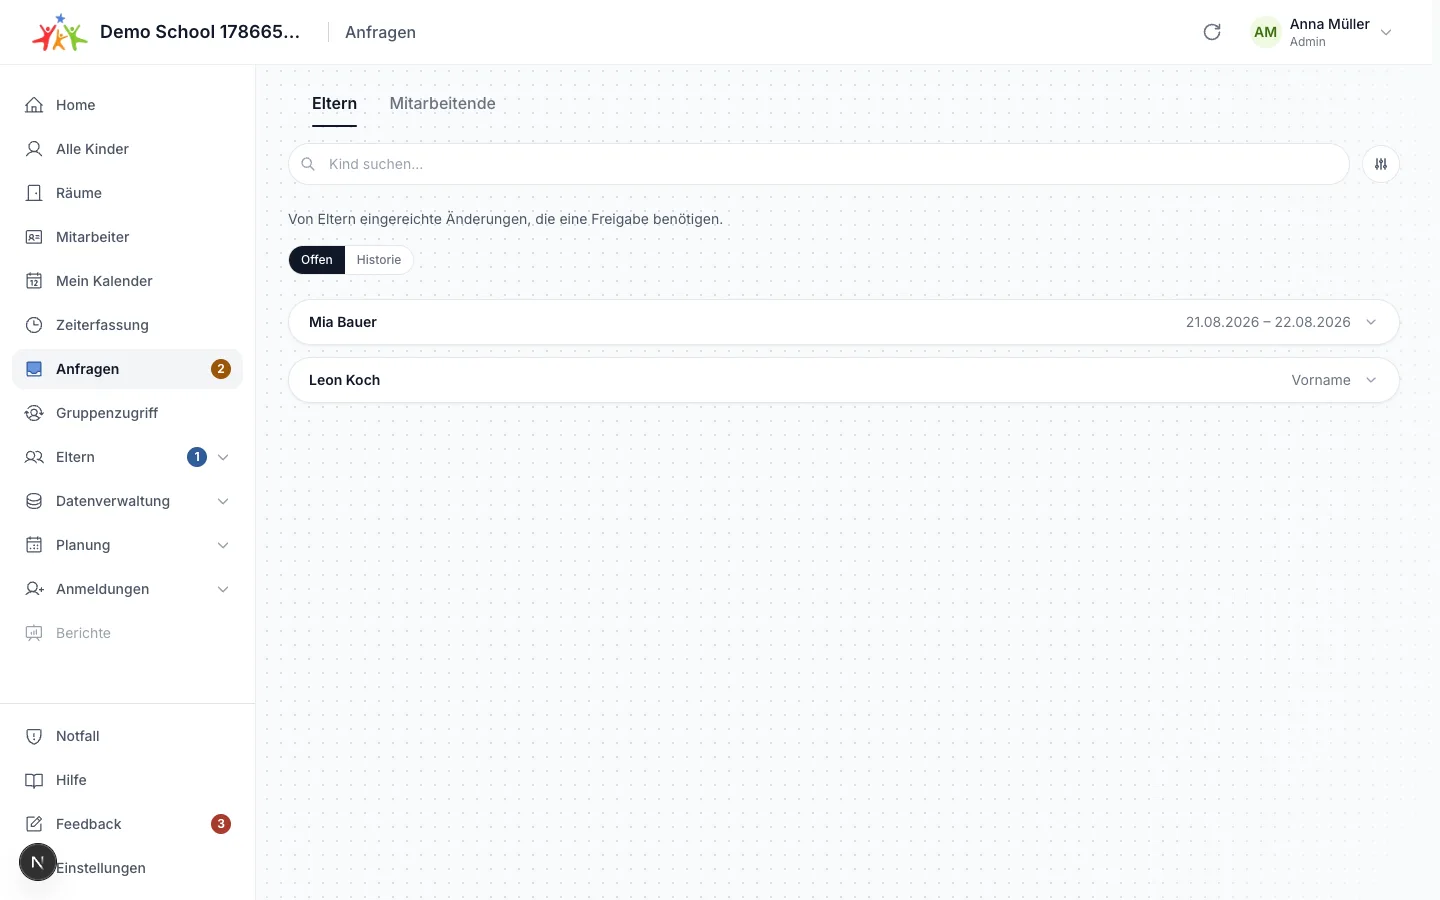
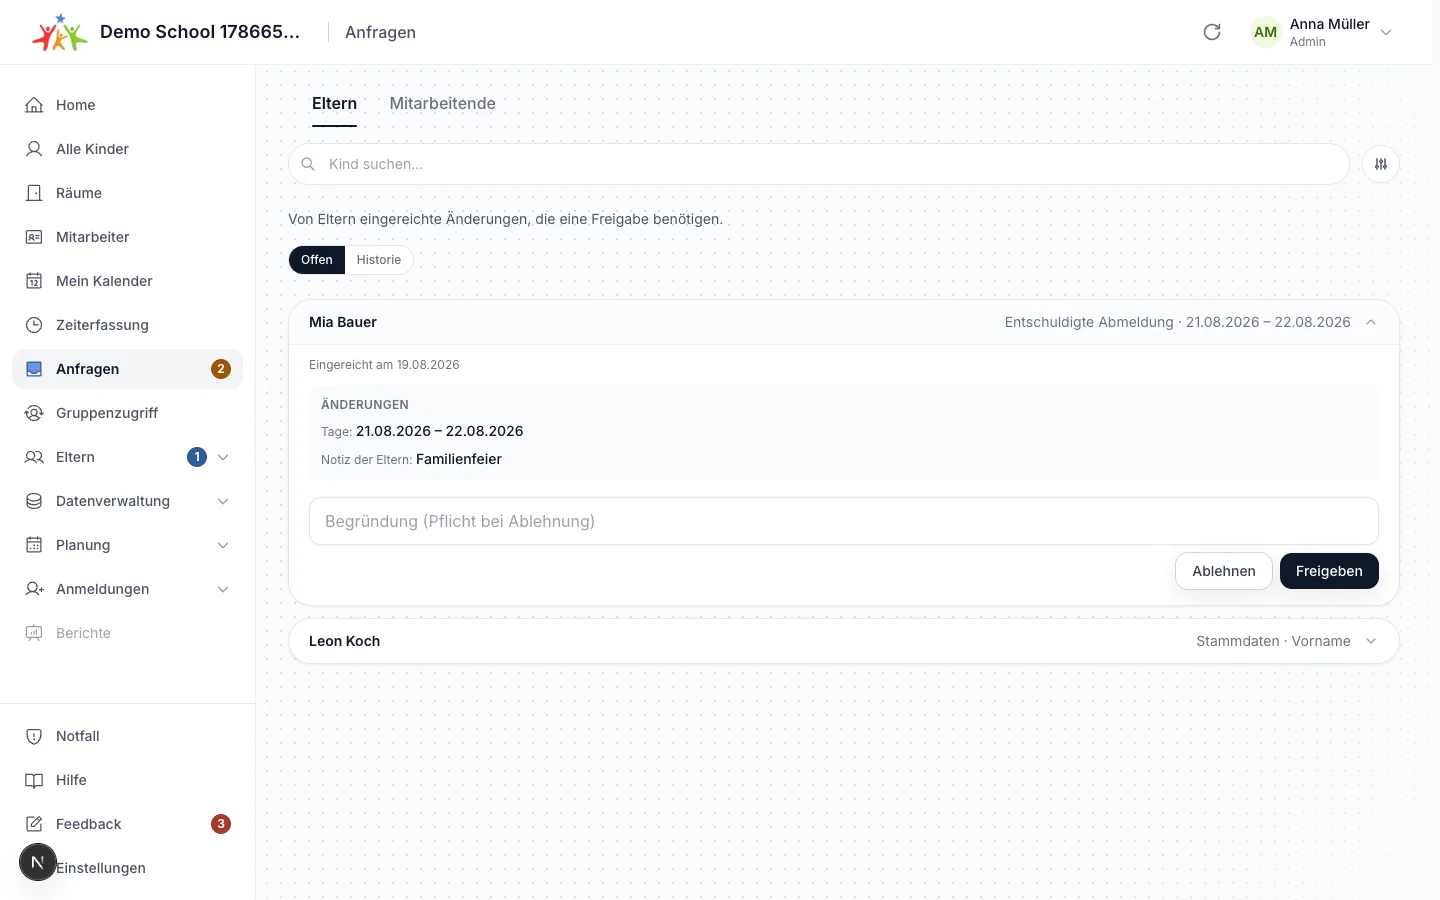
fix: Review-Feinschliff für die aggregierte Anfragenliste (#2432)
Aus dem Code-Review: jede Zeile nennt jetzt ihre Anfrageart im
Kartensummary, Karten zeigen den Einreichungszeitpunkt (Eingereicht am),
leere Cursor-Seiten bei enger Suche werden bis zu dreimal automatisch
nachgezogen statt einen blinden Nachlade-Knopf zu zeigen, die fünf
handgerollten Fehler-/Hinweis-Banner nutzen die Kit-Alert (entfernt auch
die Off-Palette-Hexwerte aus der Angebots-Karte), plus Kommentar zur
Cursor-Feldbedeutung im Offen-View und Textkorrektur im Hilfe-Guide.
Screenshot der Freigabeansicht neu aufgenommen.

diff --git a/frontend/src/components/students/aggregated-request-list.tsx b/frontend/src/components/students/aggregated-request-list.tsx
@@ -16,6 +16,7 @@ import { useCallback, useEffect, useRef, useState } from "react";
 
 import { TrayIcon } from "@phosphor-icons/react/ssr";
 
+import { Alert } from "~/components/ui/alert";
 import { Button } from "~/components/ui/button";
 import { EmptyState } from "~/components/ui/empty-state";
 import { ListSkeleton, SkeletonRegion } from "~/components/ui/page-skeletons";
@@ -90,13 +91,32 @@ export function AggregatedRequestList({
     [view, filters],
   );
 
+  // Bei sehr selektiven Filtern kann eine Server-Seite leer sein, aber einen
+  // Cursor tragen (Scan-Budget des Aggregators). Bis zu drei Folgeseiten
+  // automatisch nachziehen, damit niemand blind auf „Weitere Einträge laden"
+  // drücken muss; danach übernimmt der sichtbare Nachlade-Knopf.
+  const fetchFilledPage = useCallback(
+    async (cursor?: string) => {
+      let page = await fetchPage(cursor);
+      for (
+        let follows = 0;
+        page.items.length === 0 && page.next_cursor && follows < 3;
+        follows++
+      ) {
+        page = await fetchPage(page.next_cursor);
+      }
+      return page;
+    },
+    [fetchPage],
+  );
+
   // Erste Seite laden — auch bei jeder Such-/Filteränderung (fetchPage wechselt
   // die Identität), dann ersetzt die Antwort die Liste komplett.
   useEffect(() => {
     let cancelled = false;
     setLoading(true);
     setError(null);
-    fetchPage()
+    fetchFilledPage()
       .then((page) => {
         if (cancelled) return;
         setItems([...page.items]);
@@ -114,7 +134,7 @@ export function AggregatedRequestList({
     return () => {
       cancelled = true;
     };
-  }, [fetchPage]);
+  }, [fetchFilledPage]);
 
   // Refetch ohne Spinner, wenn eine Entscheidung anderswo fällt: Entscheidungen
   // in diesem Fenster senden change-requests-refresh, Entscheidungen anderswo
@@ -123,14 +143,14 @@ export function AggregatedRequestList({
   // Umschalten frisch.
   const reloadInPlace = useCallback(async () => {
     try {
-      const page = await fetchPage();
+      const page = await fetchFilledPage();
       setItems([...page.items]);
       setNextCursor(page.next_cursor);
     } catch (err) {
       const message = err instanceof Error ? err.message : String(err);
       logger.warn("aggregated_request_list_reload_failed", { error: message });
     }
-  }, [fetchPage]);
+  }, [fetchFilledPage]);
 
   useEffect(() => {
     if (view !== "open") return;
@@ -161,7 +181,7 @@ export function AggregatedRequestList({
     setLoadingMore(true);
     setError(null);
     try {
-      const page = await fetchPage(nextCursor);
+      const page = await fetchFilledPage(nextCursor);
       setItems((prev) => [...prev, ...page.items]);
       setNextCursor(page.next_cursor);
     } catch (err) {
@@ -173,7 +193,7 @@ export function AggregatedRequestList({
     } finally {
       setLoadingMore(false);
     }
-  }, [fetchPage, nextCursor]);
+  }, [fetchFilledPage, nextCursor]);
 
   // Nach einer Entscheidung: Zeile entfernen, Hinweis zeigen und das
   // Badge/die Geschwister-Ansichten über change-requests-refresh anstoßen.
@@ -203,16 +223,8 @@ export function AggregatedRequestList({
 
   return (
     <div className="space-y-3">
-      {error && (
-        <div className="border-moto-red/20 bg-moto-red/10 text-moto-red-strong rounded-xl border p-3 text-sm">
-          {error}
-        </div>
-      )}
-      {notice && (
-        <div className="rounded-xl border border-gray-200 bg-gray-50 p-3 text-sm text-gray-700">
-          {notice}
-        </div>
-      )}
+      {error && <Alert type="error" message={error} />}
+      {notice && <Alert type="success" message={notice} />}
       {items.length === 0 && !error ? (
         <EmptyState
           icon={<TrayIcon size={32} aria-hidden="true" />}

diff --git a/frontend/src/components/students/care-request-review-item.tsx b/frontend/src/components/students/care-request-review-item.tsx
@@ -2,6 +2,7 @@
 
 import { useState } from "react";
 
+import { Alert } from "~/components/ui/alert";
 import {
   RequestReviewCard,
   ReviewDiffPanel,
@@ -109,10 +110,19 @@ export function CareRequestReviewItem({
     }
   };
 
+  // In der gemischten Liste muss jede Zeile ihre Anfrageart nennen; die
+  // Detail-Arten (z. B. „Abholzeit + Abholart") bleiben dahinter sichtbar.
+  const kindLabel =
+    row.request_kind === "pickup_change" ? "Abholzeit" : "Betreuungszeiten";
+  const details = careSummary(row.diff);
+  const summary =
+    details && details !== kindLabel ? `${kindLabel} · ${details}` : kindLabel;
+
   return (
     <RequestReviewCard
       childName={`${row.first_name} ${row.last_name}`}
-      summary={careSummary(row.diff)}
+      summary={summary}
+      submittedAt={row.created_at}
       reason={reason}
       onReasonChange={(value) => {
         setReason(value);
@@ -129,8 +139,8 @@ export function CareRequestReviewItem({
       onReject={() => void decide(false)}
     >
       {error && (
-        <div className="border-moto-red/20 bg-moto-red/10 text-moto-red-strong mb-2 rounded-xl border p-3 text-sm">
-          {error}
+        <div className="mb-2">
+          <Alert type="error" message={error} />
         </div>
       )}
       <ReviewDiffPanel>

diff --git a/frontend/src/components/students/request-review-card.tsx b/frontend/src/components/students/request-review-card.tsx
@@ -40,6 +40,7 @@ type RequestReviewCardHistory = {
 export function RequestReviewCard({
   childName,
   summary,
+  submittedAt,
   children,
   history,
   reason,
@@ -52,6 +53,8 @@ export function RequestReviewCard({
 }: Readonly<{
   childName: string;
   summary?: string;
+  /** Einreichungszeitpunkt (ISO); rendert „Eingereicht am …" (#2432). */
+  submittedAt?: string;
   children?: ReactNode;
   history?: RequestReviewCardHistory;
   reason?: string;
@@ -78,6 +81,7 @@ export function RequestReviewCard({
           <StatusBadge label={meta.label} tone={meta.tone} />
         </div>
         <p className="mt-1 text-xs text-gray-500">
+          {submittedAt ? `Eingereicht am ${formatDate(submittedAt)} · ` : ""}
           Entschieden am {formatDate(history.decidedAt)}
           {history.decidedByName ? ` von ${history.decidedByName}` : ""}
         </p>
@@ -112,6 +116,11 @@ export function RequestReviewCard({
       </button>
       {open && (
         <div className="border-t border-gray-100 px-4 pb-4 sm:px-5">
+          {submittedAt && (
+            <p className="mt-3 text-xs text-gray-500">
+              Eingereicht am {formatDate(submittedAt)}
+            </p>
+          )}
           {children}
           <div className="mt-4 space-y-2">
             <Input

diff --git a/frontend/src/components/students/request-history-item.tsx b/frontend/src/components/students/request-history-item.tsx
@@ -25,7 +25,8 @@ function MasterDataHistoryCard({
   return (
     <RequestReviewCard
       childName={`${row.first_name} ${row.last_name}`}
-      summary={fieldLabel(row.field_key)}
+      summary={`Stammdaten · ${fieldLabel(row.field_key)}`}
+      submittedAt={row.created_at}
       history={{
         status: row.status,
         decidedAt: row.decided_at,
@@ -51,6 +52,7 @@ function CareHistoryCard({
       summary={
         row.request_kind === "pickup_change" ? "Abholzeit" : "Betreuungszeiten"
       }
+      submittedAt={row.created_at}
       history={{
         status: row.status,
         decidedAt: row.decided_at,
@@ -84,6 +86,7 @@ function OfferingHistoryCard({
     <RequestReviewCard
       childName={row.student_name}
       summary="Betreuungsangebote und AGs"
+      submittedAt={row.created_at}
       history={{
         status: row.status,
         decidedAt: row.decided_at,
@@ -126,6 +129,7 @@ function ExcusedHistoryCard({
     <RequestReviewCard
       childName={`${row.first_name} ${row.last_name}`}
       summary="Entschuldigte Abmeldung"
+      submittedAt={row.created_at}
       history={{
         status: row.status,
         decidedAt: row.decided_at,

diff --git a/frontend/src/components/help/guide-data.ts b/frontend/src/components/help/guide-data.ts
@@ -1652,7 +1652,7 @@ export const appChapters: readonly GuideChapter[] = [
           "Mit `Freigeben` wird die Änderung übernommen: Bei Betreuungszeiten wird der Wochenplan des Kindes direkt aktualisiert.",
           "Passt die Anfrage nicht, eine kurze `Begründung` eintragen und auf `Ablehnen` tippen. Der Grund wird der Bezugsperson angezeigt.",
           "Nach der Entscheidung wird die Bezugsperson in ihrer App über das Ergebnis informiert (Hinweis im Nachrichten-Verlauf und Status im Kinderbereich).",
-          "Über den Schalter `Historie` stehen alle bereits entschiedenen Anfragen in derselben Liste — mit Datum, entscheidender Person und Begründung. Dort lässt sich zusätzlich nach `Status` (Angenommen, Abgelehnt, Zurückgezogen) und nach `Zeitraum` filtern.",
+          "Über den Schalter `Historie` stehen alle bereits entschiedenen Anfragen in derselben Liste, jeweils mit Datum, entscheidender Person und Begründung. Dort lässt sich zusätzlich nach `Status` (Angenommen, Abgelehnt, Zurückgezogen) und nach `Zeitraum` filtern.",
         ],
         callout: {
           title: "Wer darf entscheiden",

diff --git a/frontend/src/components/students/master-data-review-item.tsx b/frontend/src/components/students/master-data-review-item.tsx
@@ -2,6 +2,7 @@
 
 import { useState } from "react";
 
+import { Alert } from "~/components/ui/alert";
 import {
   RequestReviewCard,
   ReviewDiffPanel,
@@ -140,7 +141,8 @@ export function MasterDataReviewItem({
   return (
     <RequestReviewCard
       childName={`${row.first_name} ${row.last_name}`}
-      summary={fieldLabel(row.field_key)}
+      summary={`Stammdaten · ${fieldLabel(row.field_key)}`}
+      submittedAt={row.created_at}
       reason={reason}
       onReasonChange={setReason}
       reasonPlaceholder="Begründung (optional)"
@@ -149,8 +151,8 @@ export function MasterDataReviewItem({
       onReject={() => void decide(false)}
     >
       {error && (
-        <div className="border-moto-red/20 bg-moto-red/10 text-moto-red-strong mb-2 rounded-xl border p-3 text-sm">
-          {error}
+        <div className="mb-2">
+          <Alert type="error" message={error} />
         </div>
       )}
       <ReviewDiffPanel>

diff --git a/frontend/src/components/students/offering-request-review-item.tsx b/frontend/src/components/students/offering-request-review-item.tsx
@@ -2,6 +2,7 @@
 
 import { useState } from "react";
 
+import { Alert } from "~/components/ui/alert";
 import {
   RequestReviewCard,
   ReviewDiffPanel,
@@ -180,7 +181,8 @@ export function OfferingRequestReviewItem({
   return (
     <RequestReviewCard
       childName={row.student_name}
-      summary={`ab ${formatDate(row.effective_from)}`}
+      summary={`Betreuungsangebote und AGs · ab ${formatDate(row.effective_from)}`}
+      submittedAt={row.created_at}
       reason={reason}
       onReasonChange={(value) => {
         setReason(value);
@@ -197,8 +199,8 @@ export function OfferingRequestReviewItem({
       onReject={() => void decide(false)}
     >
       {error && (
-        <div className="rounded-xl border border-[#FF3130]/20 bg-[#FF3130]/10 p-3 text-sm text-[#CC2626]">
-          {error}
+        <div className="mb-2">
+          <Alert type="error" message={error} />
         </div>
       )}
       <ReviewDiffPanel>

diff --git a/frontend/src/components/students/excused-request-review-item.tsx b/frontend/src/components/students/excused-request-review-item.tsx
@@ -2,6 +2,7 @@
 
 import { useState } from "react";
 
+import { Alert } from "~/components/ui/alert";
 import {
   RequestReviewCard,
   ReviewDiffPanel,
@@ -105,7 +106,8 @@ export function ExcusedRequestReviewItem({
   return (
     <RequestReviewCard
       childName={`${row.first_name} ${row.last_name}`}
-      summary={datesSummary(row.dates)}
+      summary={`Entschuldigte Abmeldung · ${datesSummary(row.dates)}`}
+      submittedAt={row.created_at}
       reason={reason}
       onReasonChange={(value) => {
         setReason(value);
@@ -122,8 +124,8 @@ export function ExcusedRequestReviewItem({
       onReject={() => void decide(false)}
     >
       {error && (
-        <div className="border-moto-red/20 bg-moto-red/10 text-moto-red-strong mb-2 rounded-xl border p-3 text-sm">
-          {error}
+        <div className="mb-2">
+          <Alert type="error" message={error} />
         </div>
       )}
       <ReviewDiffPanel>

diff --git a/frontend/src/components/students/master-data-review-item.test.tsx b/frontend/src/components/students/master-data-review-item.test.tsx
@@ -67,7 +67,7 @@ describe("MasterDataReviewItem", () => {
 
     expect(screen.getAllByText("Lara Beispiel")).toHaveLength(2);
     expandAll();
-    expect(screen.getByText("Vorname")).toBeInTheDocument();
+    expect(screen.getByText("Stammdaten · Vorname")).toBeInTheDocument();
     expect(screen.getByText("Montag: Wird abgeholt")).toBeInTheDocument();
     expect(
       screen.getByText("Montag: Fährt Bus / Geht zu Fuß"),
@@ -207,7 +207,7 @@ describe("MasterDataReviewItem", () => {
 
     expandAll();
     // Unknown field keys fall back to the raw key in the summary.
-    expect(screen.getAllByText("unknown_field").length).toBeGreaterThan(0);
+    expect(screen.getAllByText(/unknown_field/).length).toBeGreaterThan(0);
     fireEvent.click(screen.getByRole("button", { name: "Ablehnen" }));
 
     await waitFor(() =>

diff --git a/frontend/src/components/students/excused-request-review-item.test.tsx b/frontend/src/components/students/excused-request-review-item.test.tsx
@@ -56,7 +56,7 @@ describe("ExcusedRequestReviewItem", () => {
 
     // Summary appears in the collapsed header and again in the expanded panel.
     expect(
-      screen.getAllByText("01.07.2026 – 03.07.2026").length,
+      screen.getAllByText(/01\.07\.2026 – 03\.07\.2026/).length,
     ).toBeGreaterThan(0);
     expand();
     expect(screen.getByText("Notiz der Eltern:")).toBeInTheDocument();
@@ -74,7 +74,7 @@ describe("ExcusedRequestReviewItem", () => {
     );
 
     expect(
-      screen.getAllByText("01.07.2026, 03.07.2026").length,
+      screen.getAllByText(/01\.07\.2026, 03\.07\.2026/).length,
     ).toBeGreaterThan(0);
   });
 

diff --git a/frontend/src/components/students/care-request-review-item.test.tsx b/frontend/src/components/students/care-request-review-item.test.tsx
@@ -73,7 +73,9 @@ describe("CareRequestReviewItem", () => {
     render(<CareRequestReviewItem row={row()} onDecided={onDecided} />);
 
     // Collapsed summary: the distinct change kinds from the diff labels.
-    expect(screen.getByText("Abholzeit + Abholart")).toBeInTheDocument();
+    expect(
+      screen.getByText("Betreuungszeiten · Abholzeit + Abholart"),
+    ).toBeInTheDocument();
     expand();
     expect(screen.getByText("Montag · Abholzeit:")).toBeInTheDocument();
     expect(screen.getByText("15:00")).toBeInTheDocument();

diff --git a/backend/api/students/change_request_list_handlers.go b/backend/api/students/change_request_list_handlers.go
@@ -83,7 +83,8 @@ type AggregatedChangeRequestPage struct {
 // aggregatedCursor maps request types to their keyset position — the last DB
 // row of that type the client has consumed. Types absent from the map start
 // from the top. Opaque on the wire (base64url JSON), like the per-type
-// history cursor.
+// history cursor. On the open view the position instant is the row's
+// created_at; the payload field name (u) just follows the shared wire shape.
 type aggregatedCursor map[string]historyCursorPayload
 
 func encodeAggregatedCursor(cursor aggregatedCursor) string {
